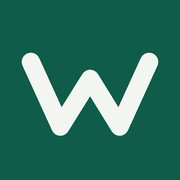
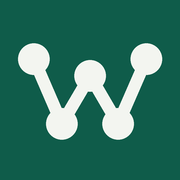
로고를 점으로 이은 W로
실이 엮이는 모양이면서 노드 그래프라 AI를 암시한다. 파비콘,
헤더, 폰 아이콘, 링크 카드에 같은 마크. README에 색과 서체 정리.

diff --git a/index.html b/index.html
@@ -529,7 +529,7 @@
 <body id="top">
 <header class="topbar">
   <div class="wrap topbar-in">
-    <a class="brand" href="#top" aria-label="Weave by Slay Solution"><svg class="mark" viewBox="0 0 64 64" aria-hidden="true"><path d="M8 19 L20 48 L32 27 L44 48 L56 19" fill="none" stroke="currentColor" stroke-width="7.5" stroke-linecap="round" stroke-linejoin="round"/></svg><b>Weave</b><span>by Slay Solution</span></a>
+    <a class="brand" href="#top" aria-label="Weave by Slay Solution"><svg class="mark" viewBox="0 0 64 64" aria-hidden="true"><path d="M10 18 L21 46 L32 26 L43 46 L54 18" fill="none" stroke="currentColor" stroke-width="4.2" stroke-linecap="round" stroke-linejoin="round"/><g fill="currentColor"><circle cx="10" cy="18" r="5.6"/><circle cx="21" cy="46" r="5.6"/><circle cx="32" cy="26" r="5.6"/><circle cx="43" cy="46" r="5.6"/><circle cx="54" cy="18" r="5.6"/></g></svg><b>Weave</b><span>by Slay Solution</span></a>
     <nav class="navlinks">
       <a href="#who">이런 회사</a>
       <a href="#markets">업종</a>

diff --git a/README.md b/README.md
@@ -28,3 +28,20 @@
 - 요금 숫자 — 지금은 세 칸 모두 "문의"입니다.
 - DKIM — Microsoft 365 관리자에서 켜야 합니다 (SPF·DMARC는 완료).
 - 영문판 — 푸터 한 줄만 영어입니다.
+
+## 로고와 색
+
+마크는 **점으로 이은 W**입니다. 실이 엮이는 모양이면서, 점과 선으로 이어진 형태가 AI를 암시합니다. `logo-mark.svg`가 원본이고, 같은 모양이 파비콘·폰 아이콘·링크 카드에 들어갑니다.
+
+| 쓰임 | 값 |
+|---|---|
+| 초록 (강조) | `#0f5c4a` |
+| 바탕 | `#f3f5f0` |
+| 글자 | `#151d18` |
+| 흐린 글자 | `#4d5a51` · `#7d8a80` |
+| 선 | `#d2d9cd` |
+| 제목 서체 | IBM Plex Sans KR |
+| 본문 서체 | Noto Sans KR |
+| 라벨 서체 | IBM Plex Mono, 대문자, 자간 넓게 |
+
+마크는 초록 단색으로만 씁니다. 그라데이션이나 그림자를 넣지 마십시오.
